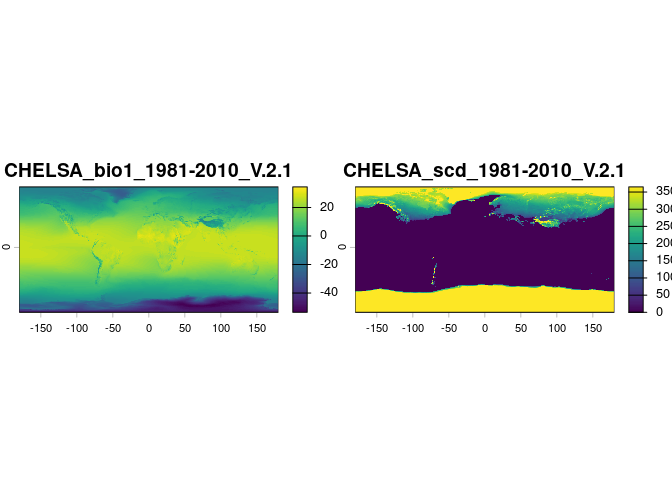
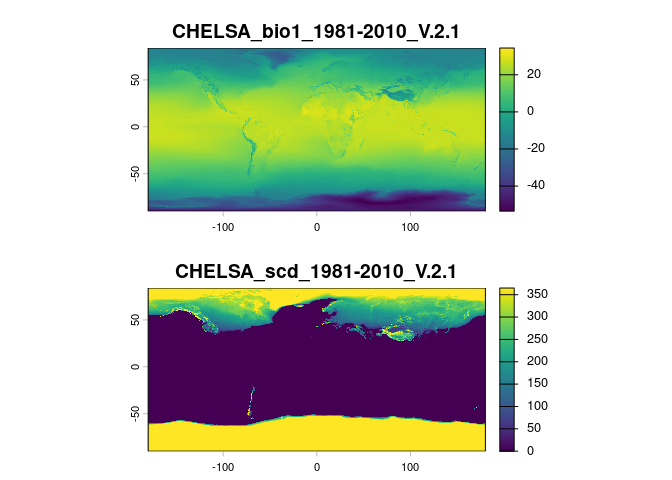
update README

diff --git a/README.md b/README.md
@@ -55,7 +55,7 @@ downloadif(links, destdir = "outputs/variables")
 # import variables from downloads folder:
 layers <- terra::rast(list.files("outputs/variables", full.names = TRUE))
 
-terra::plot(layers)
+terra::plot(layers, nc = 1)
 ```
 
 <img src="man/figures/README-unnamed-chunk-1-1.png" width="100%" />
@@ -86,8 +86,8 @@ terra::plot(terra::project(eea50, layers), add = TRUE)
 
 <img src="man/figures/README-unnamed-chunk-3-1.png" width="100%" />
 
-So we use the `regridR::regrid()` function to get the climate layers on
-a raster grid that matches the EEA grid:
+So we use the `regrid()` function of the `regridR` package to get the
+climate layers on a raster grid that matches the EEA grid:
 
 ``` r
 # RE-GRID LAYERS ----
